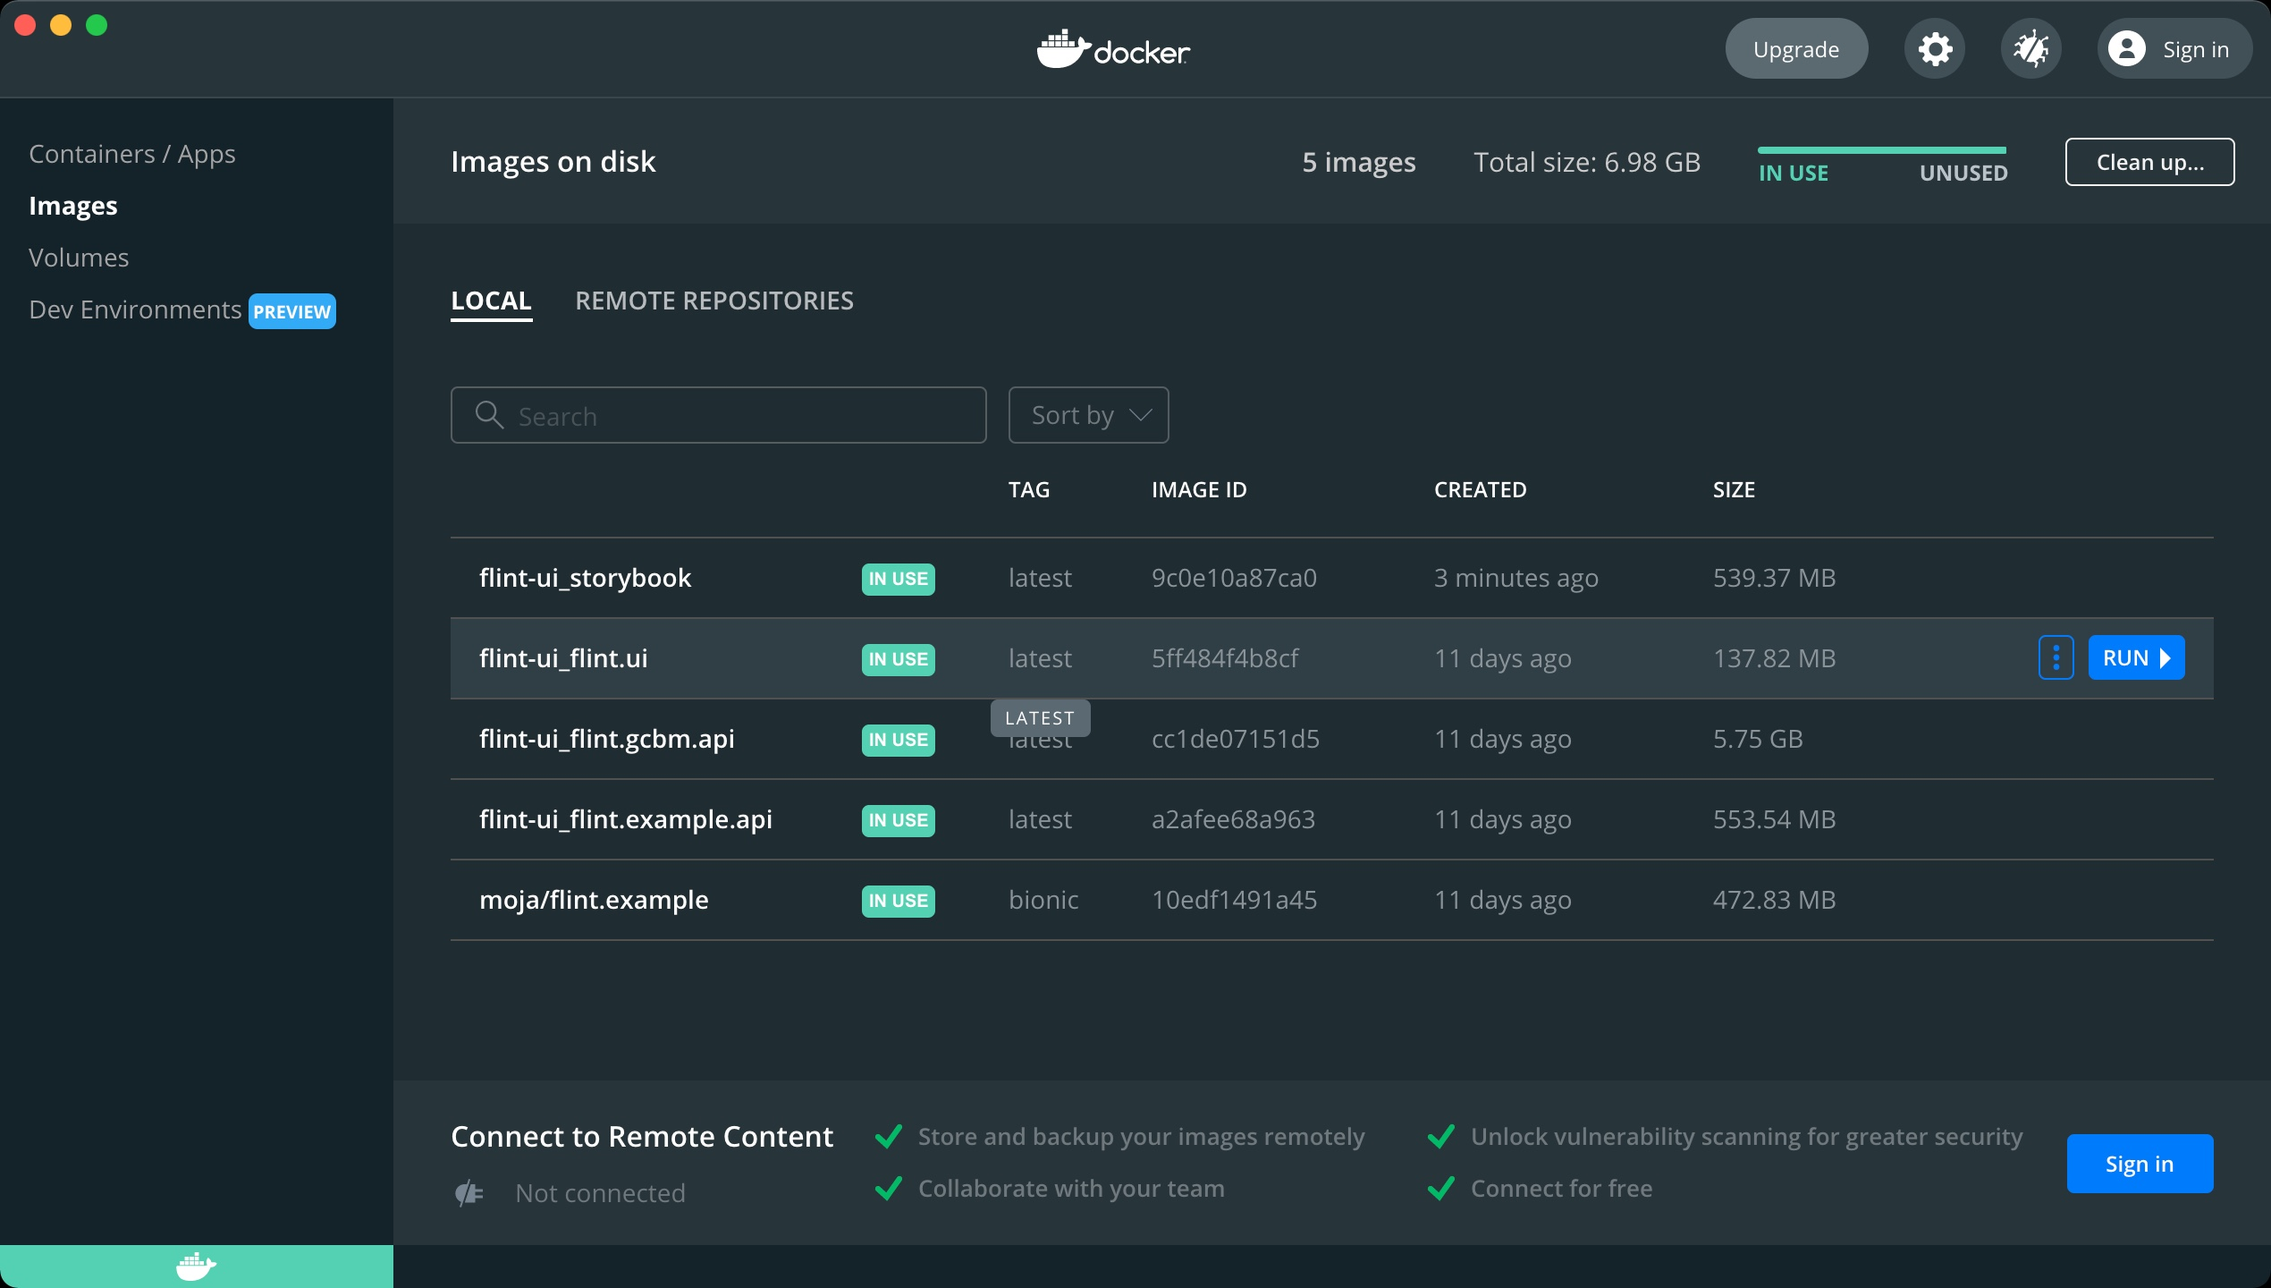
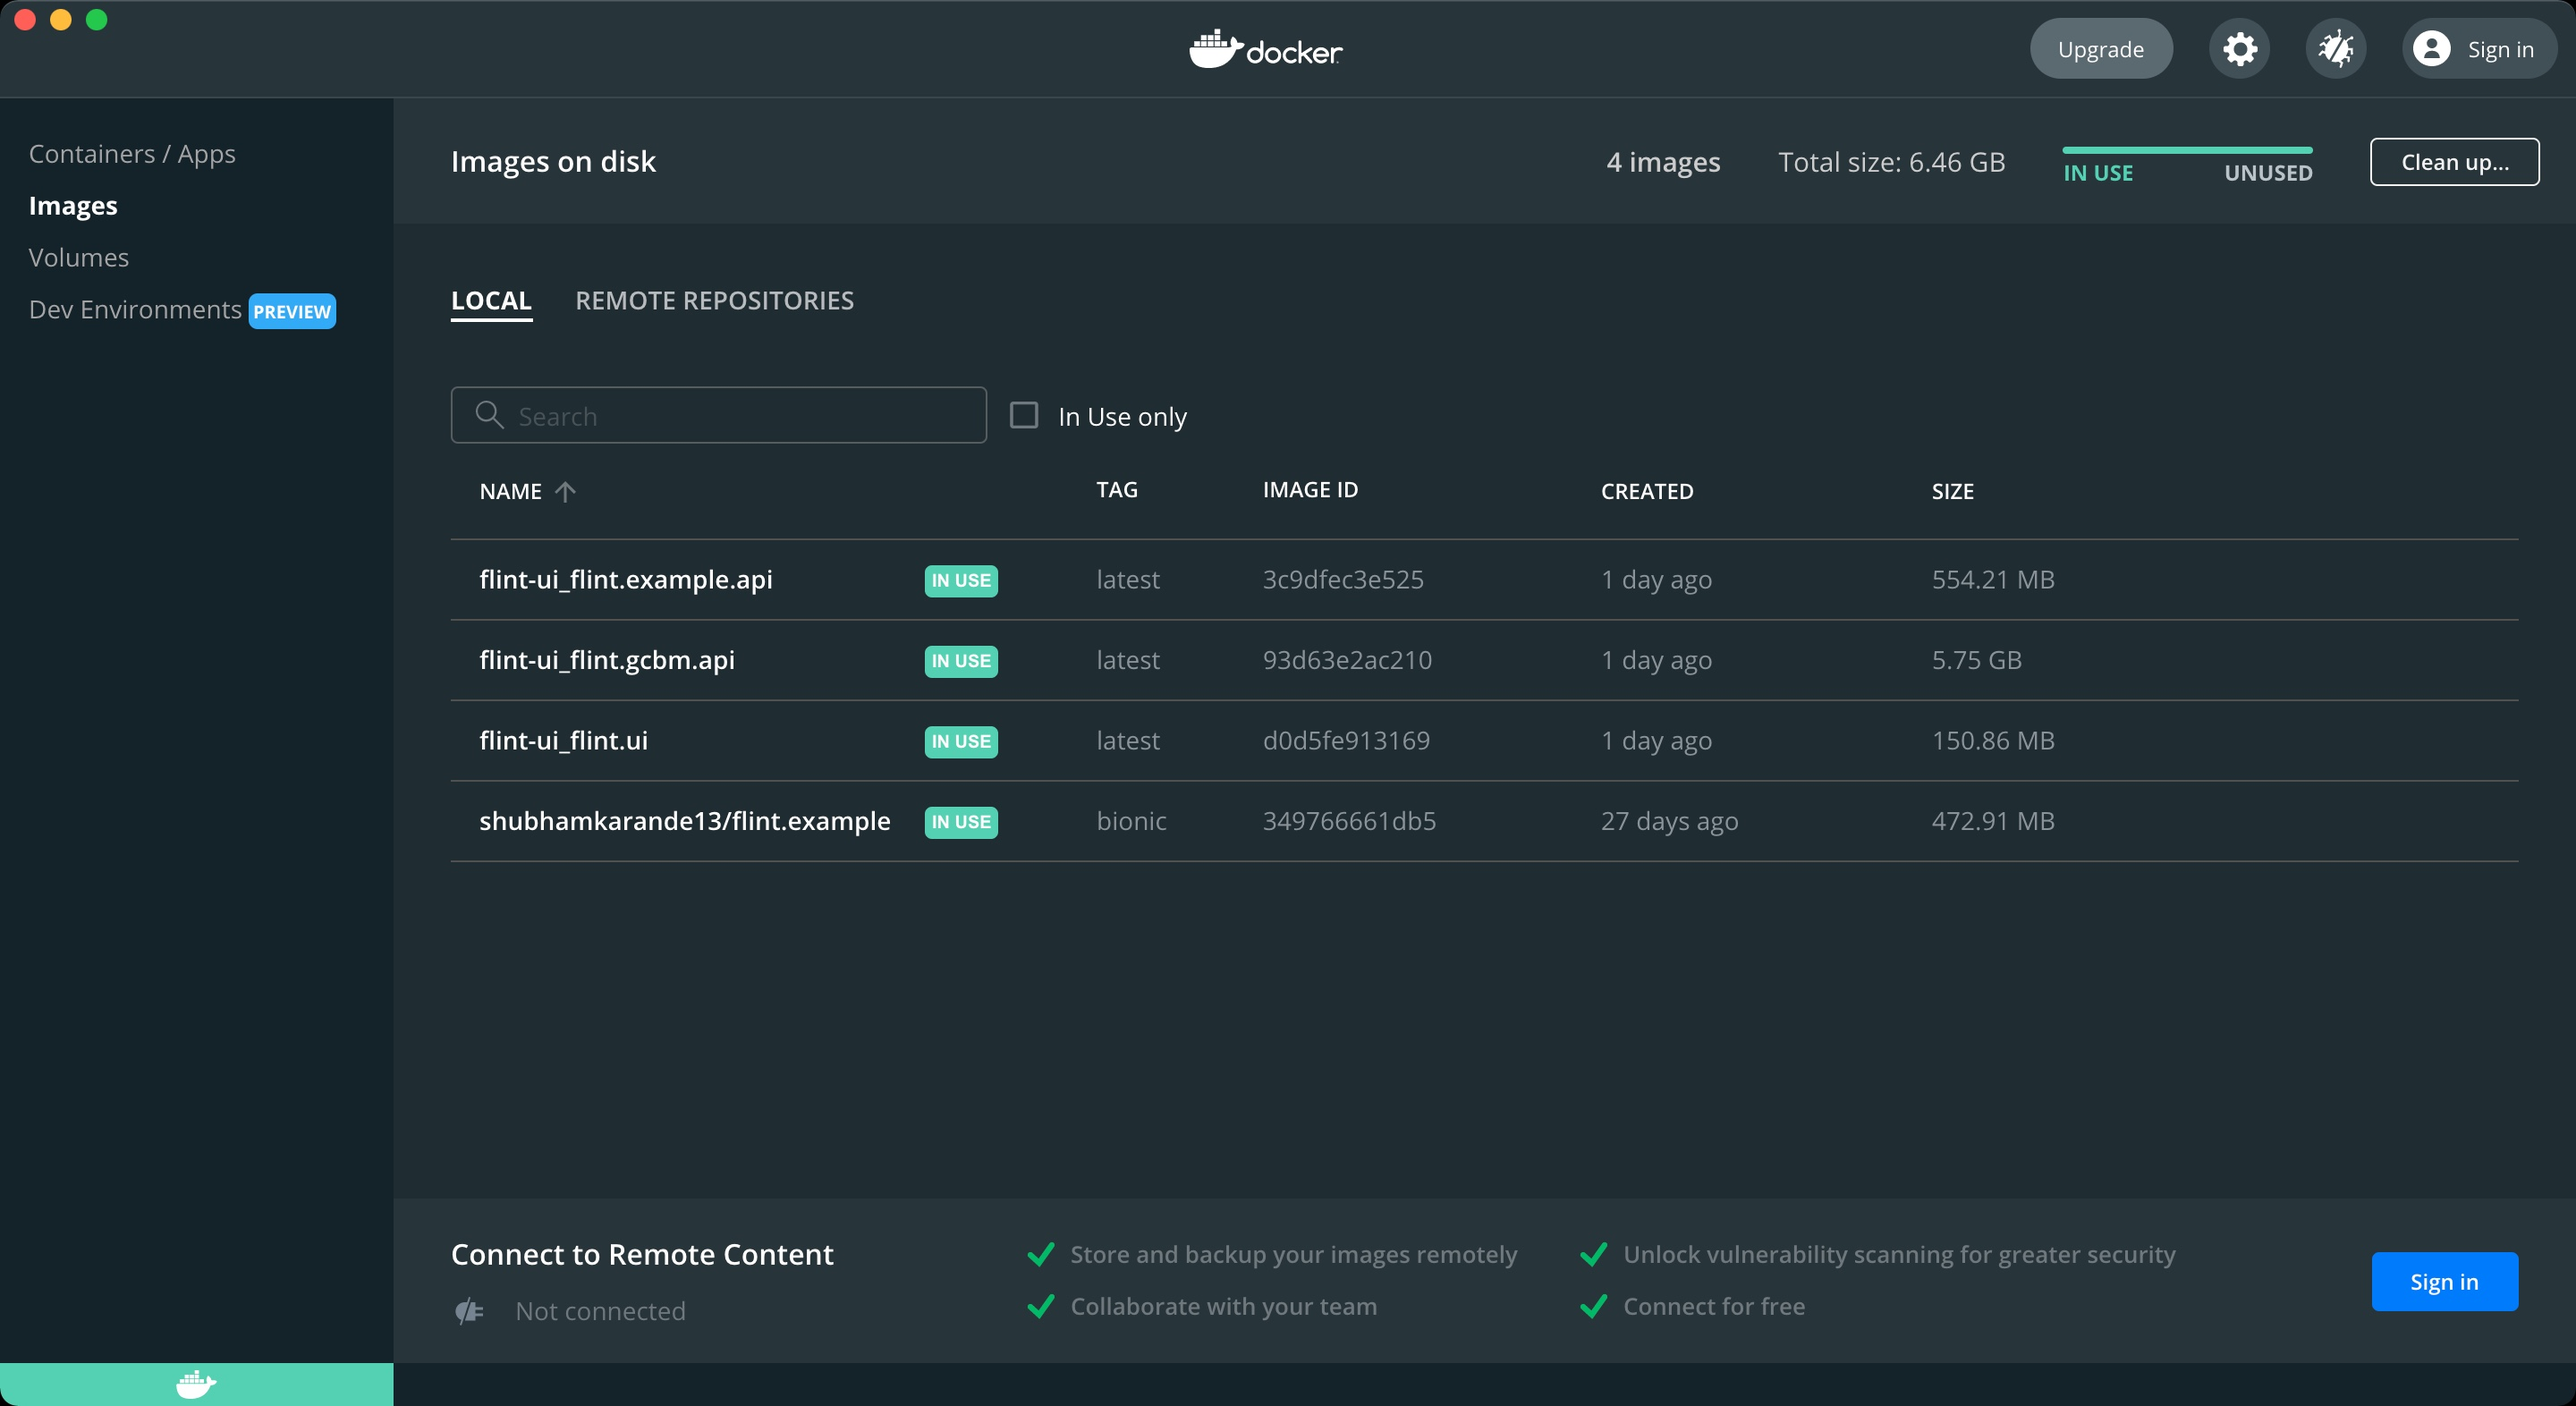
fix: Fixed visualization table bug and improved docs

diff --git a/flint.ui/public/index.html b/flint.ui/public/index.html
@@ -8,14 +8,15 @@
     <link
       rel="apple-touch-icon"
       sizes="76x76"
-      href="<%= BASE_URL %>apple-icon.png"
+      href="<%= BASE_URL %>apple-touch-icon.png"
     />
-    <title>
-      moja-global FLINT UI
-    </title>
-    <link rel="preconnect" href="https://fonts.googleapis.com"> 
-    <link rel="preconnect" href="https://fonts.gstatic.com" crossorigin> 
-    <link href="https://fonts.googleapis.com/css2?family=DM+Sans:ital,wght@0,400;0,500;0,700;1,400;1,500;1,700&display=swap" rel="stylesheet">
+    <title>moja global FLINT UI</title>
+    <link rel="preconnect" href="https://fonts.googleapis.com" />
+    <link rel="preconnect" href="https://fonts.gstatic.com" crossorigin />
+    <link
+      href="https://fonts.googleapis.com/css2?family=DM+Sans:ital,wght@0,400;0,500;0,700;1,400;1,500;1,700&display=swap"
+      rel="stylesheet"
+    />
   </head>
   <body class="text-blueGray-700 antialiased">
     <noscript>

diff --git a/flint.ui/src/views/flint/TablePoint.vue b/flint.ui/src/views/flint/TablePoint.vue
@@ -48,6 +48,7 @@
         theme="default"
         :source="rows"
         :columns="columns"
+        :readonly="true"
       ></v-grid>
     </div>
   </div>
@@ -78,7 +79,7 @@ export default {
           name: 'stepLenInYears',
           size: 200
         },
-        
+
         // stacked column
         {
         name: 'Pools',
@@ -99,10 +100,10 @@ export default {
             size: 150
           }
         ],
-    
+
         },
       ],
-      
+
       rows: this.generateDataRows()
     }
   },

diff --git a/flint.ui/src/views/flint/TableRothC.vue b/flint.ui/src/views/flint/TableRothC.vue
@@ -48,6 +48,7 @@
         theme="default"
         :source="rows"
         :columns="columns"
+        :readonly="true"
       ></v-grid>
     </div>
   </div>

diff --git a/README.md b/README.md
@@ -3,7 +3,7 @@
 <br />
 <h1>FLINT UI</h1>
 <h6>
-A FLINT client, written in Vue, to provide an awesome user interface for configuring simulations using the FLINT.Cloud APIs.
+A FLINT client, written in Vue, to provide an awesome user interface for configuring simulations using the FLINT.Cloud APIs
 </h6>
 <a href="#contributors"><img src="https://img.shields.io/badge/all_contributors-1-74e8a3.svg?style=flat-square" /></a>
 <a href="https://github.com/moja-global/FLINT-UI/network/members"><img src="https://img.shields.io/github/forks/moja-global/FLINT-UI?color=74e8a3&style=flat-square" /></a>
@@ -19,7 +19,7 @@ This project provides an intuitive way for new to explore some preconfigured FLI
 
 To set up this project locally follows the below procedure:
 
-1. Pull the below docker image to run flint.example:
+1. Pull the below docker image to run `flint.example`:
 
 ```shell
 docker pull shubhamkarande13/flint.example:bionic
@@ -53,7 +53,7 @@ This will build all the docker images inside the `docker-compose.yml` file. It w
 
 <br />
 
-`docker-compose.yml` file is compose of four services i.e. `flint.example.api`, `flint.gcbm.api`, `flint.ui` and `storybook`.
+`docker-compose.yml` file is compose of three services i.e. `flint.example.api`, `flint.gcbm.api`, `flint.ui`.
 
 Now you can start all the containers by clicking on the `START` button or using the command `docker-compose up`. You can also use the command `docker start {name of the container}` to start the only specific container.
 
@@ -74,7 +74,7 @@ To shut down, the whole `docker-compose.yml` file and all services inside it the
 4. To view the UI please navigate to [127.0.0.1:8000](http://127.0.0.1:8000/). UI will look something like this:
 
 <div align="center">
-<img src="assets/dashboard.jpg">
+<img src="assets/flint-ui-dashboard.jpg">
 </div>
 
 ## Developer notes
@@ -101,7 +101,7 @@ Go to the `flint.ui` directory.
 yarn install
 ```
 
-2. Build the Storybook site:
+2. Start the Storybook in development mode:
 
 ```shell
 yarn storybook
@@ -136,17 +136,17 @@ Obvious examples are:
 - FLINT: Full Lands Integration Tool
 - RothC: Rothamstead Carbon model
 
-We recommend using ESLint and the prettier plugins to make conforming to the Vue style guide easy. There is official integration for VSCode and Atom editors. Find out more [here](https://eslint.vuejs.org/user-guide/).
+We recommend using ESLint and the Prettier plugins to make conforming to the Vue style guide easy. There is official integration for VSCode and other editors. Find out more [here](https://eslint.vuejs.org/user-guide/).
 
 If you have ESLint installed globally, you can run it from the `flint.ui` directory. For example, this will detect any errors in the `src` folder:
 
-```
+```shell
 eslint --ext .js,.vue src
 ```
 
 Minor errors can be fixed automatically:
 
-```
+```shell
 eslint --fix --ext .js,.vue src
 ```
 
